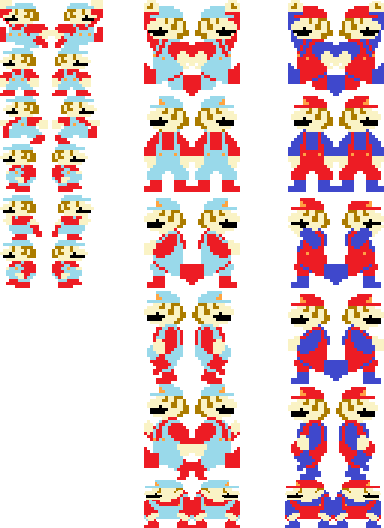
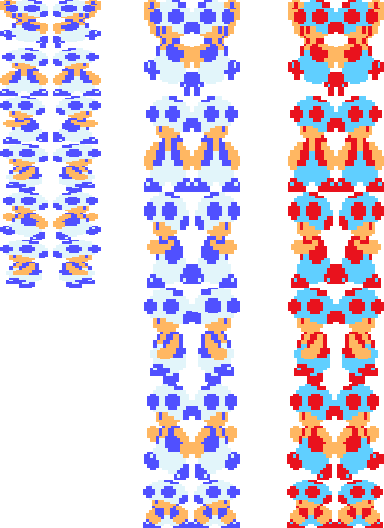
DONE.

diff --git a/src/SuperMario/repository/LoadGameRepository.java b/src/SuperMario/repository/LoadGameRepository.java
@@ -52,8 +52,8 @@ public class LoadGameRepository {
         boolean[] typesOwned = new boolean[5];
         typesOwned[HeroType.MARIO] = true;
         typesOwned[HeroType.LUIGI] = (Boolean) object.get("Owns Luigi");
-        typesOwned[HeroType.PRINCE_PEACH] = (Boolean) object.get("Owns Prince Peach");
-        typesOwned[HeroType.ROSS] = (Boolean) object.get("Owns Ross");
+        typesOwned[HeroType.PRINCESS_PEACH] = (Boolean) object.get("Owns Princess Peach");
+        typesOwned[HeroType.ROSALINA] = (Boolean) object.get("Owns Rosalina");
         typesOwned[HeroType.TOAD] = (Boolean) object.get("Owns Toad");
 
         Hero hero;
@@ -63,12 +63,12 @@ public class LoadGameRepository {
                 hero = new Luigi(x, y, width, height, type, formType, isSuper, canShootFire);
                 break;
             }
-            case HeroType.PRINCE_PEACH: {
-                hero = new PrincePeach(x, y, width, height, type, formType, isSuper, canShootFire);
+            case HeroType.PRINCESS_PEACH: {
+                hero = new PrincessPeach(x, y, width, height, type, formType, isSuper, canShootFire);
                 break;
             }
-            case HeroType.ROSS: {
-                hero = new Ross(x, y, width, height, type, formType, isSuper, canShootFire);
+            case HeroType.ROSALINA: {
+                hero = new Rosalina(x, y, width, height, type, formType, isSuper, canShootFire);
                 break;
             }
             case HeroType.TOAD:{

diff --git a/src/SuperMario/graphic/view/UI/UIManager.java b/src/SuperMario/graphic/view/UI/UIManager.java
@@ -159,21 +159,21 @@ public class UIManager extends JPanel {
             setFontAndColor(g2);
             g2.drawString("15", 370, 535);
         }
-        //Prince Peach
-        if (!engine.getUserData().getTypesOwned()[HeroType.PRINCE_PEACH]) {
+        //Princess Peach
+        if (!engine.getUserData().getTypesOwned()[HeroType.PRINCESS_PEACH]) {
             setFontAndColor(g2);
             g2.drawString(buy, 560, 500);
 
             setFontAndColor(g2);
             g2.drawString("40", 610, 535);
         }
-        //Ross
-        if (!engine.getUserData().getTypesOwned()[HeroType.ROSS]) {
+        //Rosalina
+        if (!engine.getUserData().getTypesOwned()[HeroType.ROSALINA]) {
             setFontAndColor(g2);
             g2.drawString(buy, 780, 500);
 
             setFontAndColor(g2);
-            g2.drawString("30", 830, 535);
+            g2.drawString("30", 840, 535);
         }
         //Toad
         if (!engine.getUserData().getTypesOwned()[HeroType.TOAD]) {

diff --git a/src/SuperMario/graphic/view/states/StoreScreenSelection.java b/src/SuperMario/graphic/view/states/StoreScreenSelection.java
@@ -3,8 +3,8 @@ package SuperMario.graphic.view.states;
 public enum StoreScreenSelection {
     MARIO(0),
     LUIGI(1),
-    PRINCE_PEACH(2),
-    ROSS(3),
+    PRINCESS_PEACH(2),
+    ROSALINA(3),
     TOAD(4);
 
     private final int columnNumber;
@@ -19,9 +19,9 @@ public enum StoreScreenSelection {
         else if (number == 1)
             return LUIGI;
         else if (number == 2)
-            return PRINCE_PEACH;
+            return PRINCESS_PEACH;
         else if (number == 3)
-            return ROSS;
+            return ROSALINA;
         else if (number == 4)
             return TOAD;
         else
@@ -32,9 +32,9 @@ public enum StoreScreenSelection {
         switch (this) {
             case LUIGI:
                 return 15;
-            case PRINCE_PEACH:
+            case PRINCESS_PEACH:
                 return 40;
-            case ROSS:
+            case ROSALINA:
                 return 30;
             case TOAD:
                 return 35;

diff --git a/src/SuperMario/input/ImageLoader.java b/src/SuperMario/input/ImageLoader.java
@@ -239,14 +239,14 @@ public class ImageLoader {
             case HeroType.LUIGI:
                 heroForms = loadImage("/hero/luigi-forms.png");
                 break;
-            case HeroType.ROSS:
-                heroForms = loadImage("/hero/ross-forms.png");
+            case HeroType.ROSALINA:
+                heroForms = loadImage("/hero/rosalina-forms.png");
                 break;
             case HeroType.TOAD:
                 heroForms = loadImage("/hero/toad-forms.png");
                 break;
-            case HeroType.PRINCE_PEACH:
-                heroForms = loadImage("/hero/prince peach-forms.png");
+            case HeroType.PRINCESS_PEACH:
+                heroForms = loadImage("/hero/princess peach-forms.png");
                 break;
             default:
                 heroForms = loadImage("/hero/mario-forms.png");

diff --git a/src/SuperMario/model/hero/PrincessPeach.java b/src/SuperMario/model/hero/PrincessPeach.java
@@ -3,16 +3,16 @@ package SuperMario.model.hero;
 import SuperMario.graphic.manager.Camera;
 
 
-public class PrincePeach extends Hero {
+public class PrincessPeach extends Hero {
 
-    public PrincePeach(double x, double y) {
+    public PrincessPeach(double x, double y) {
         super(x, y);
-        setType(HeroType.PRINCE_PEACH);
+        setType(HeroType.PRINCESS_PEACH);
     }
 
-    public PrincePeach(double x, double y, int width, int height, int type, int heroForm, boolean isSuper, boolean canShootFire) {
+    public PrincessPeach(double x, double y, int width, int height, int type, int heroForm, boolean isSuper, boolean canShootFire) {
         super(x, y, width, height, type, heroForm, isSuper, canShootFire);
-        setType(HeroType.PRINCE_PEACH);
+        setType(HeroType.PRINCESS_PEACH);
     }
 
     @Override

diff --git a/src/SuperMario/model/hero/Rosalina.java b/src/SuperMario/model/hero/Rosalina.java
@@ -3,15 +3,15 @@ package SuperMario.model.hero;
 
 import SuperMario.graphic.manager.Camera;
 
-public class Ross extends Hero {
-    public Ross(double x, double y) {
+public class Rosalina extends Hero {
+    public Rosalina(double x, double y) {
         super(x, y);
-        setType(HeroType.ROSS);
+        setType(HeroType.ROSALINA);
     }
 
-    public Ross(double x, double y, int width, int height, int type, int heroForm, boolean isSuper, boolean canShootFire) {
+    public Rosalina(double x, double y, int width, int height, int type, int heroForm, boolean isSuper, boolean canShootFire) {
         super(x, y, width, height, type, heroForm, isSuper, canShootFire);
-        setType(HeroType.ROSS);
+        setType(HeroType.ROSALINA);
     }
 
     @Override

diff --git a/src/SuperMario/repository/SaveGameRepository.java b/src/SuperMario/repository/SaveGameRepository.java
@@ -34,8 +34,8 @@ public class SaveGameRepository {
         object.put("Jumping", hero.isJumping());
 
         object.put("Owns Luigi", userData.getTypesOwned()[HeroType.LUIGI]);
-        object.put("Owns Prince Peach", userData.getTypesOwned()[HeroType.PRINCE_PEACH]);
-        object.put("Owns Ross", userData.getTypesOwned()[HeroType.ROSS]);
+        object.put("Owns Princess Peach", userData.getTypesOwned()[HeroType.PRINCESS_PEACH]);
+        object.put("Owns Rosalina", userData.getTypesOwned()[HeroType.ROSALINA]);
         object.put("Owns Toad", userData.getTypesOwned()[HeroType.TOAD]);
 
         object.put("Map path", userData.getMapPath());

diff --git a/src/SuperMario/logic/UserData.java b/src/SuperMario/logic/UserData.java
@@ -32,8 +32,8 @@ public class UserData {
     private void setTypesOwned(){
         typesOwned[HeroType.MARIO] = true;
         typesOwned[HeroType.LUIGI] = false;
-        typesOwned[HeroType.PRINCE_PEACH] = false;
-        typesOwned[HeroType.ROSS] = false;
+        typesOwned[HeroType.PRINCESS_PEACH] = false;
+        typesOwned[HeroType.ROSALINA] = false;
         typesOwned[HeroType.TOAD] = false;
     }
 

diff --git a/src/SuperMario/model/hero/HeroType.java b/src/SuperMario/model/hero/HeroType.java
@@ -4,8 +4,8 @@ public class HeroType {
 
     public static final int MARIO = 0;
     public static final int LUIGI = 1;
-    public static final int PRINCE_PEACH = 2;
-    public static final int ROSS = 3;
+    public static final int PRINCESS_PEACH = 2;
+    public static final int ROSALINA = 3;
     public static final int TOAD = 4;
 
 }
